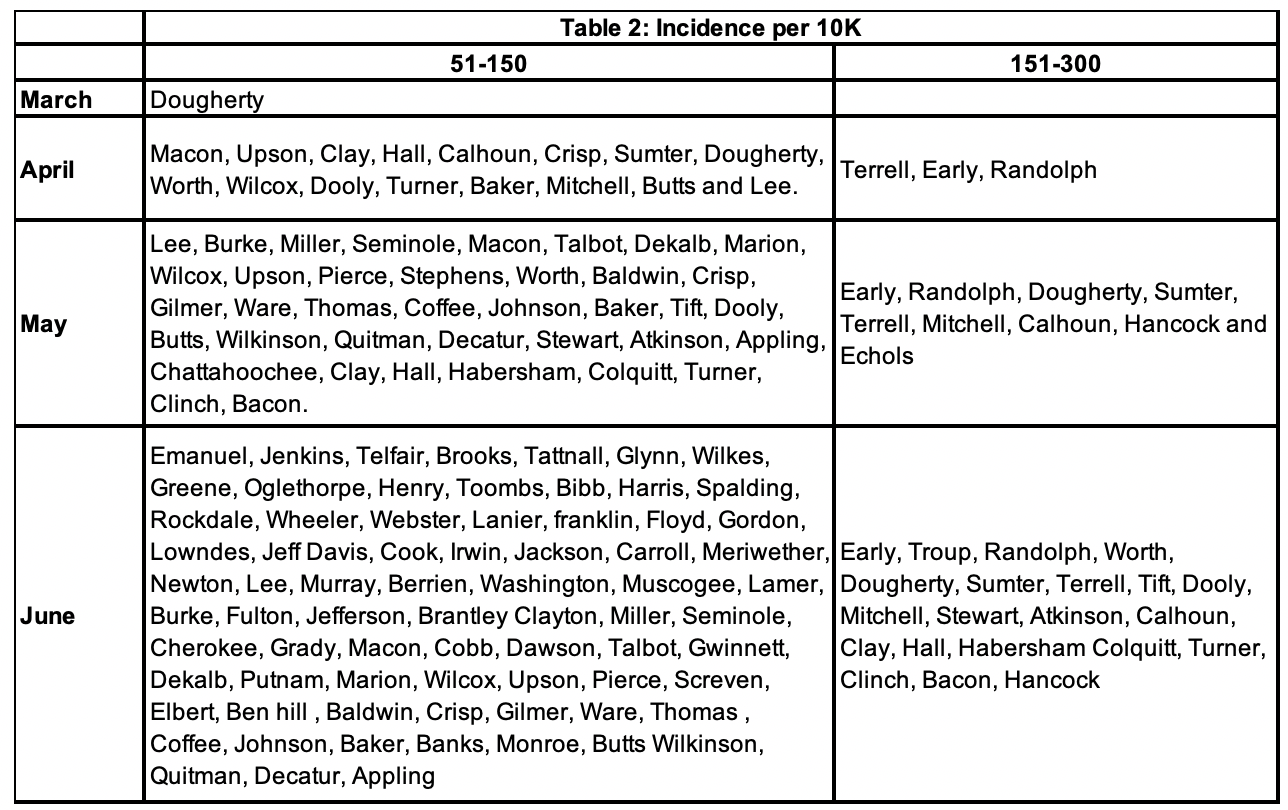
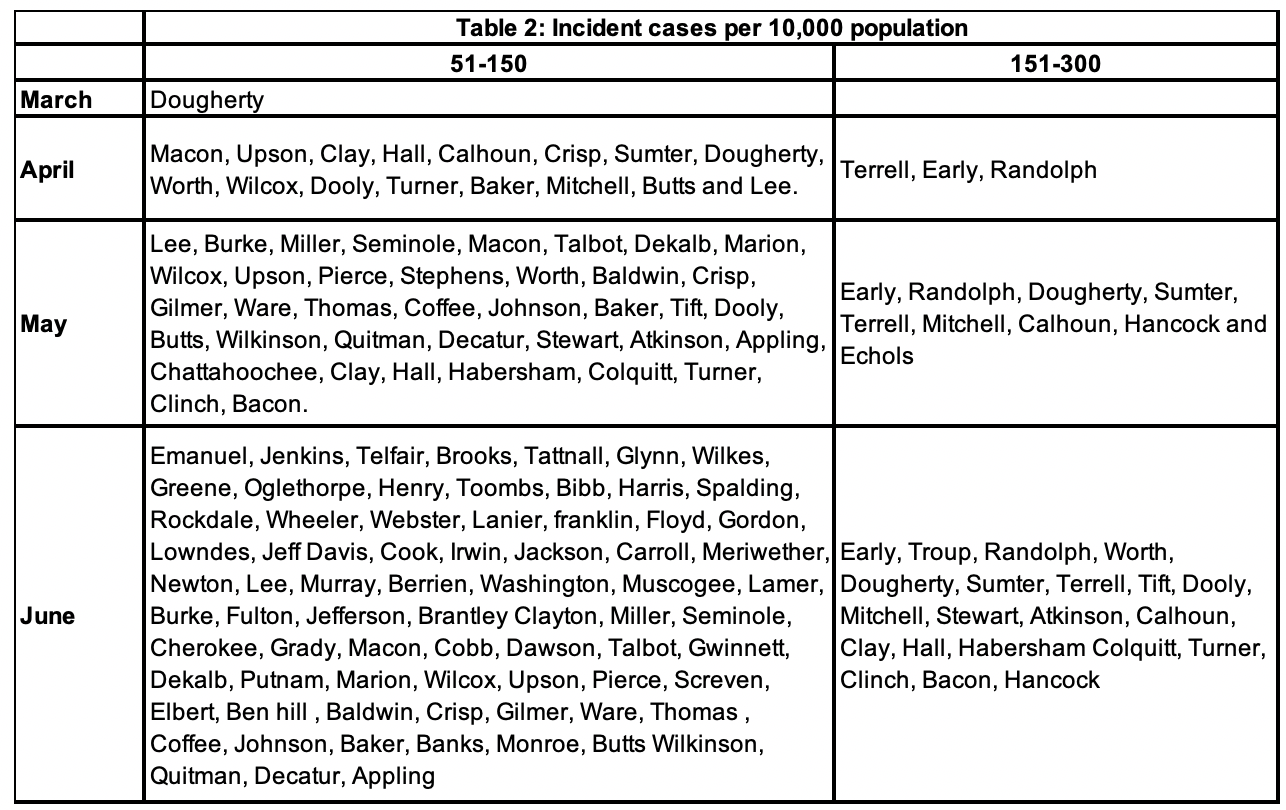
Updated Table 2
Updated wording around incidence in table 2 for clarity.

diff --git a/content/project/pandemic-burden-march-to-june/index.md b/content/project/pandemic-burden-march-to-june/index.md
@@ -44,11 +44,11 @@ Takeaways:
 
 {{< figure src="table1.png" lightbox="true" >}}
 
-**Counties and COVID-19 case incidence (number per 10,000 person) by month**
+**Counties and COVID-19 case cumulative incidence (cases per 10,000 population) by month**
 
 {{< figure src="table2.png" lightbox="true" >}}
 
-There are two counties with incidence in the 301 to 500 per 10k rate, they are Chattahoochee, Echols.
+There are two counties with a cumulative incidence in the 301 to 500 per 10,000 population, they are Chattahoochee, Echols.
 We will continue tracking the pandemic on a monthly basis.
 
 [Return to previous page]({{< ref "/project/pandemic-burden/index.md" >}})
